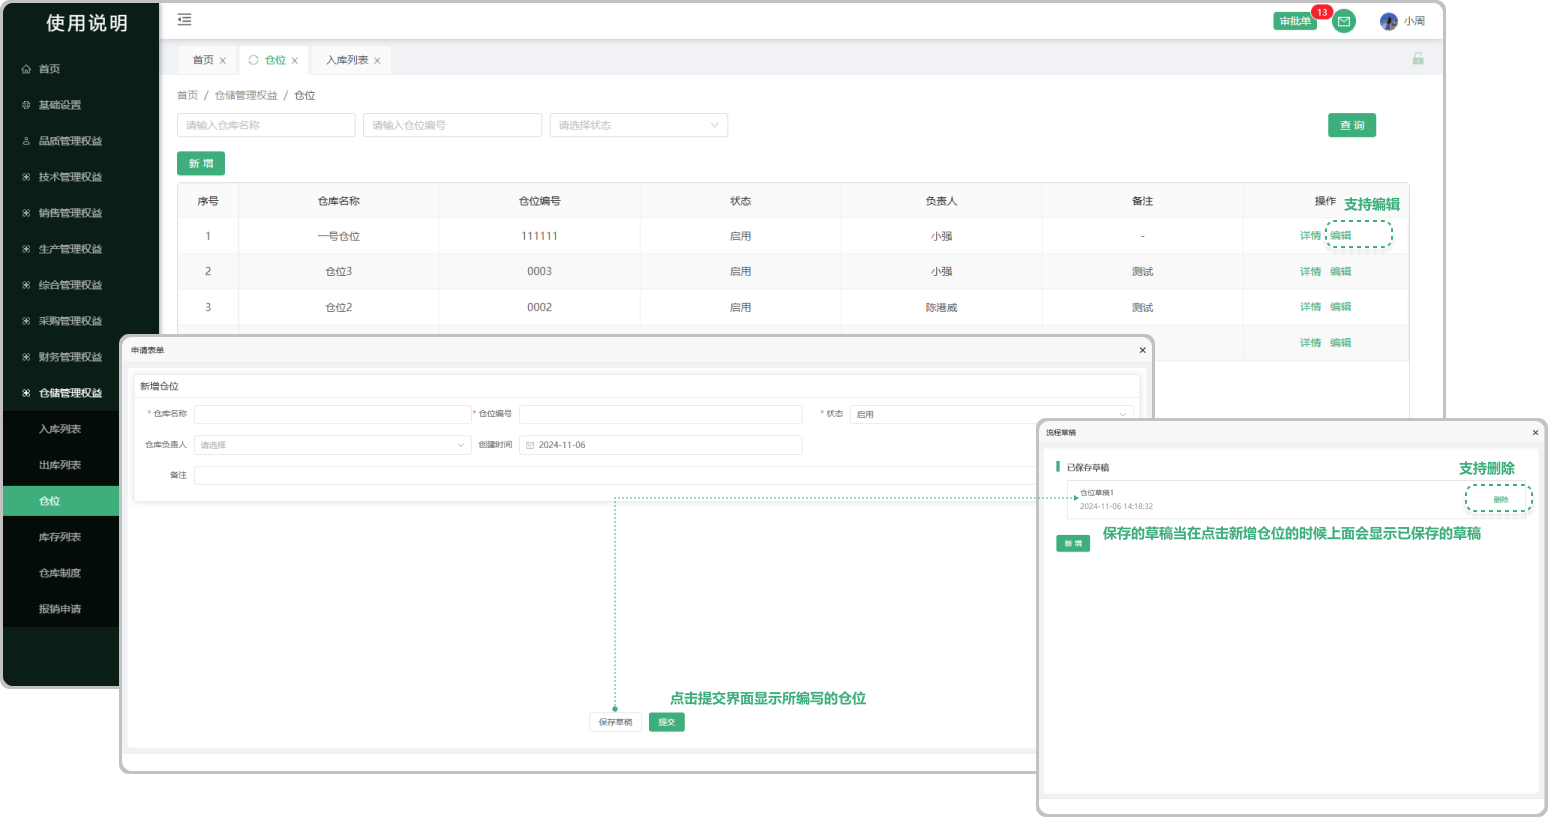
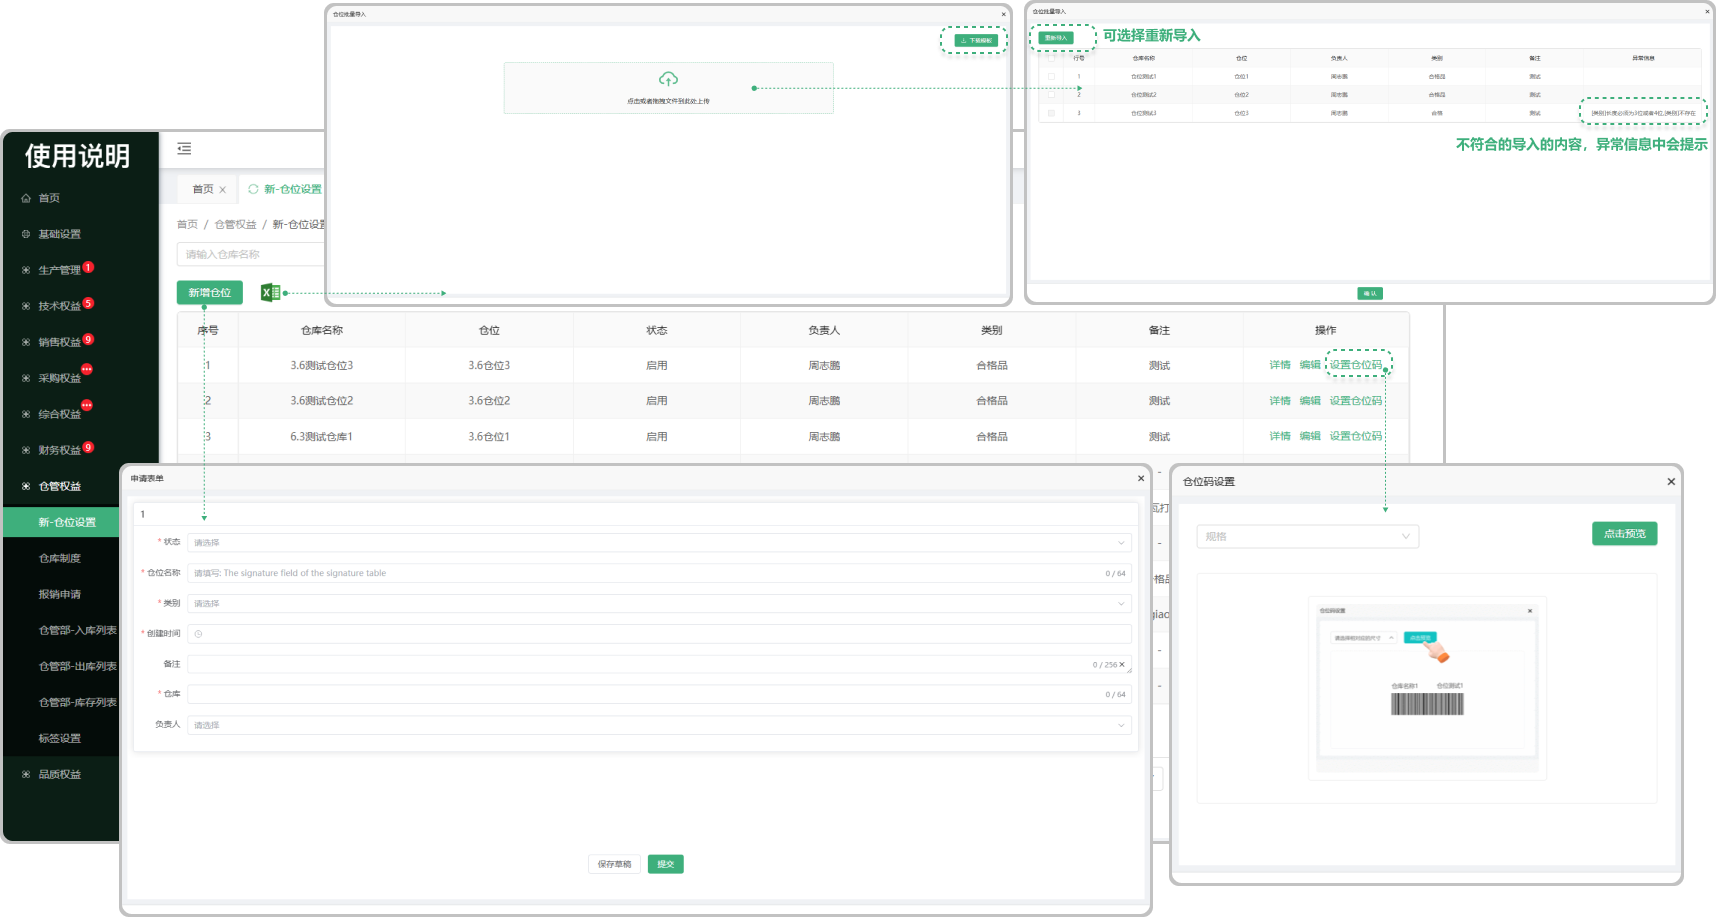
3.3待发任务

diff --git a/docs/生产管理/待发任务-主管.md b/docs/生产管理/待发任务-主管.md
@@ -1,4 +1,4 @@
-# 待发任务-主管
+# 待发任务-待发明细
 
 > “待发任务-主管”位于“生产管理板块”包含待发明细、发货请求
 
@@ -10,11 +10,48 @@
 
 * 在待发任务-主管列表中，只有主管可以分配
 
-* 主任将待发明细中需要发货的单子点击分配选择员工、需发量、需求发出时间给员工，在待发任务-员工列表中，分配的员工会接收到所分配的单子
+* 主管将待发明细中需要发货的单子点击分配给员工，在待发任务-员工列表中，分配的员工会接收到所分配的单子
 
 #### 3.批量分配
 
 * 勾选序号前的勾选框，触发批量分配按钮，点击批量分配按钮可将所勾选的单子分配给员工
 
 
-![如图所示](../file/sc-bxsq2.png)
+#### 4.已发量
+
+* 主管分配单子给员工，员工发货完成提交以后，主管在已发量字段中可点击查看到员工发货的信息
+
+![如图所示](../file/sc-dfrw1.png)
+
+
+
+# 待发任务-发货请求
+
+
+#### 1.发货请求来源
+
+* 在销售合同页面点击发货，所发货的单子会流转到待发任务-发货请求这个页面
+
+* 发货请求页面所带气泡提示，提示用户有多少单子未发货
+* 
+
+#### 2.分配
+
+* 在待发任务-发货请求中，只有主管可以分配
+
+* 主管将待发请求中需要发货的单子点击分配给员工，在待发任务-员工列表中，分配的员工会接收到所分配的单子
+
+
+#### 3.批量分配
+
+* 勾选序号前的勾选框，触发批量分配按钮，点击批量分配按钮可将所勾选的单子分配给员工
+
+
+#### 4.已发量
+
+* 主管分配单子给员工，员工发货完成提交以后，主管在已发量字段中可点击查看到员工发货的信息
+
+![如图所示](../file/sc-dfrw2.png)
+
+
+

diff --git a/docs/仓储管理/仓位列表.md b/docs/仓储管理/仓位列表.md
@@ -1,13 +1,33 @@
 
 
-# 仓位列表
+# 仓位设置
 
-> "仓位列表“位于仓储管理板块，在列表中可以新增仓位，支持保存草稿、编辑（在库存列表中可以用选择放置的仓位）
+> "仓位设置“位于仓储管理板块，在列表中可以新增仓位，支持保存草稿、编辑、设置仓位码（在库存列表中可以用选择放置所建的仓位）
 
-#### 1. 如图所示：
-* 新增：点击新增按钮可以去添加新的仓位 
-* 编辑：在新增的仓位后面可以编辑（更改原有基础上的信息）
+#### 1.新增仓位
+
+* 点击新增按钮可以去添加新的仓位
+
+#### 2.编辑功能
+
+* 在新增的仓位后面可以编辑（更改原有基础上的信息）
+
+#### 3.保存草稿功能
+
 * 保存草稿：保存草稿后再次点击新增仓位的时候上面会显示之前保存的草稿
+
+#### 4.设置二维码
+
+* 可针对每个仓位进行设置二维码，可自由选择二维码的宽高进行预览
+
+#### 5. 批量导入
+
+* 点击批量导入可下载导入模板
+
+* 在模板中编辑需导入的信息（编辑之前先看模板上方的导入规格，避免导入的信息出现错误）
+
+* 如果导入的信息不能添加到系统中，请查看后面备注的异常信息，可选择重新导入
+
 
 
 ![如图所示](../file/cc-cw.png)

diff --git a/docs/仓储管理/入库列表.md b/docs/仓储管理/入库列表.md
@@ -8,3 +8,9 @@
 * 产品 / 零件：指的是入库的产品或者零件，点击相对应的产品 / 零件可产看基本信息
 
 ![如图所示](../file/cc-rklb.png)
+
+
+
+
+
+
